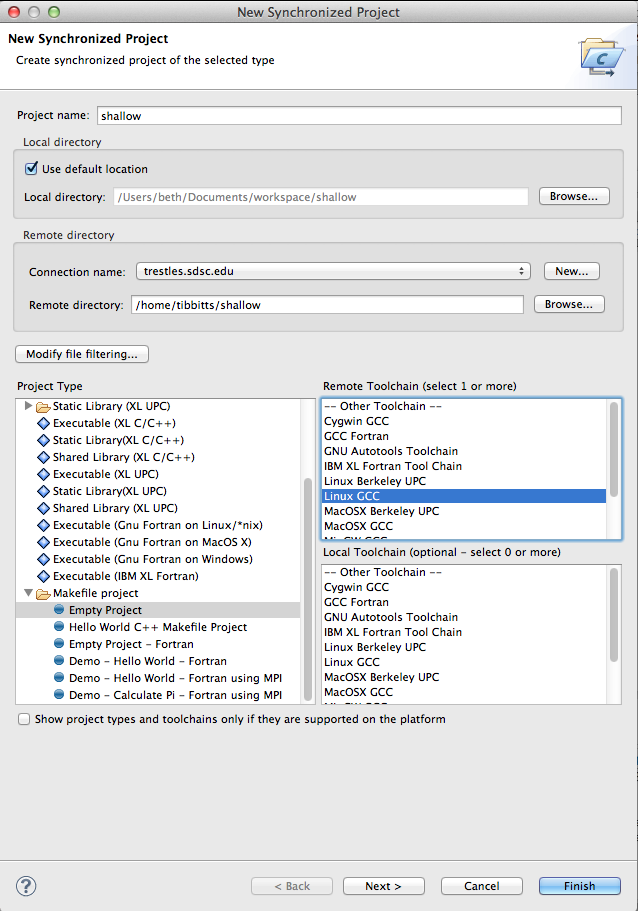
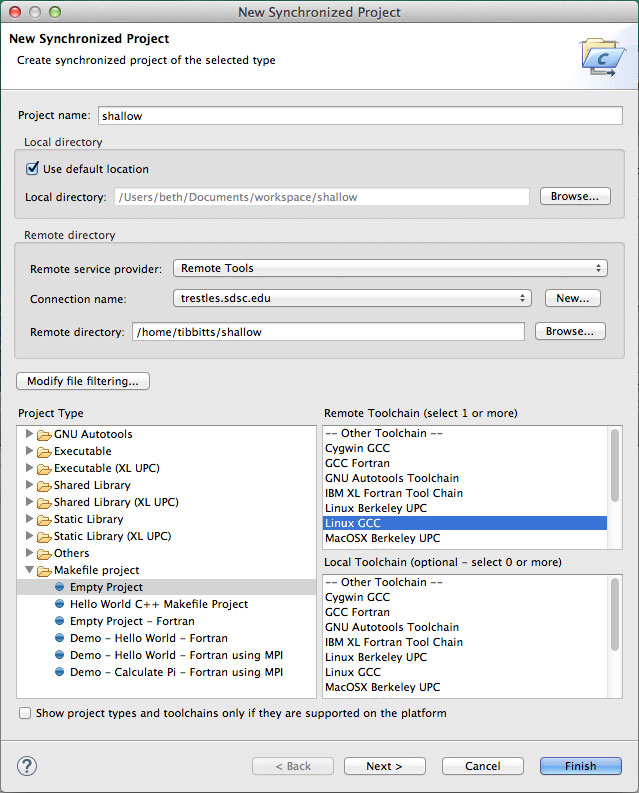
Bug 424176 - update PTP docs.  Update dialogs for Connection info
Connection dialogs now need Remote Services Provider (e.g. Remote
Tools). Remote Terminal dialog changes too.

Changed region(s): [[0.0, 0.0, 1.0, 0.9079], [0.0, 0.9382, 1.0, 1.0]]

diff --git a/core/org.eclipse.ptp.doc.user/html/01buildMPIprog.html b/core/org.eclipse.ptp.doc.user/html/01buildMPIprog.html
@@ -66,8 +66,11 @@ on Eclipse features for Fortran.
 under your Eclipse workspace directory, so leave this as is.
 <p>The <b>Remote Directory</b> specifies where the remote files are located, so we must tell Eclipse where it is.
 <p>Here we create a new connection to the remote machine.
-Click on <b>New...</b> next to <b>Connection:</b>
+First select a <b>Remote Service Provider</b> as <b>Remote Tools</b>.
+Then select the <b>New...</b> button next to <b>Connection:</b>
 to create a new connection.
+<p>
+<img src="images/01sync-newProj2a.png">
 <ul><li>If a connection already exists, simply select it.</li></ul>
 <h4 id="newconn">Creating a new connection</h4>
 <p>The dialog to create a new remote connection appears, <b>Target Environment Configuration</b>.
@@ -85,7 +88,7 @@ see
 of the source files of your project - for <b>Remote Directory</b>, select the <b>Browse</b> button.
 Note that this is the first time the connection information is used, so if you have specified
 hostname, userid, or password incorrectly it will fail.
-If this is the case, either
+If you do get an error connecting, and you need to change the host name, userid or password in the connection, you can:
 <ul>
 <li>create another connection right here
 in the new sync project wizard.  You can always delete the first one later ... or
@@ -94,7 +97,7 @@ in the new sync project wizard.  You can always delete the first one later ... o
 to change the connection information.
 </ul>
 
-<p>If the connection information is successful, you will see a  dialog on the remote system
+<p>If the connection information is successful, the <b>Browse</b> button will pop up a  dialog on the remote system
 allowing you to select the <b>Project Location</b> on that system.
 Select the location of your source files - or create a new directory to which you can
 add files later - and select <b>OK</b>.

diff --git a/core/org.eclipse.ptp.doc.user/html/remoteTerminal.html b/core/org.eclipse.ptp.doc.user/html/remoteTerminal.html
@@ -29,9 +29,10 @@ button.
 
 <p><img src="images/rterm_connect2.png"></p>
 <p>&nbsp;</p>
-<p>In the next dialog, choose <b>Connection Type:</b> to use e.g. <b>Remote Tools</b>,
-and under <b>Settings</b>, select the connection to use. 
-If you have not already established a connection, select <b>New...</b>
+<p>In the next dialog, choose <b>Connection Type:</b> to use e.g. <b>Remote Services</b>,
+and under <b>Settings</b>, select 
+<b>Remote service provider:</b> to use e.g. <b>Remote Tools</b>.
+Select your existing connection.  Or, if you have not already established a connection, select <b>New...</b>
 and enter hostname, user, password, etc.
 For more information about creating connections, see <a href="remoteTools.html">Remote Tools</a>.
 <p><img src="images/rterm_connect1.png"></p>
@@ -47,7 +48,10 @@ For more information about creating connections, see <a href="remoteTools.html">
 from the dropdown menu next to the 
 <img src="images/rterm_icon_newConn.png"> button in the view toolbar.
 <p><img src="images/rterm_newTermView.png"></p>
-<p>Then multiple <b>Terminal</b> views will exist, each with a different connection.
+<p>Fill in the information as indicated above, for the additional Terminal view.
+Note that you can change the view title in the dialog to create the new Terminal connection.
+This will give the multiple terminal views different names.
+<p>Then multiple <b>Terminal</b> views will exist, each with a different connection.  View titles were not changed in this example.
 <p><img src="images/rterm_2views.png"></p>
 
 
